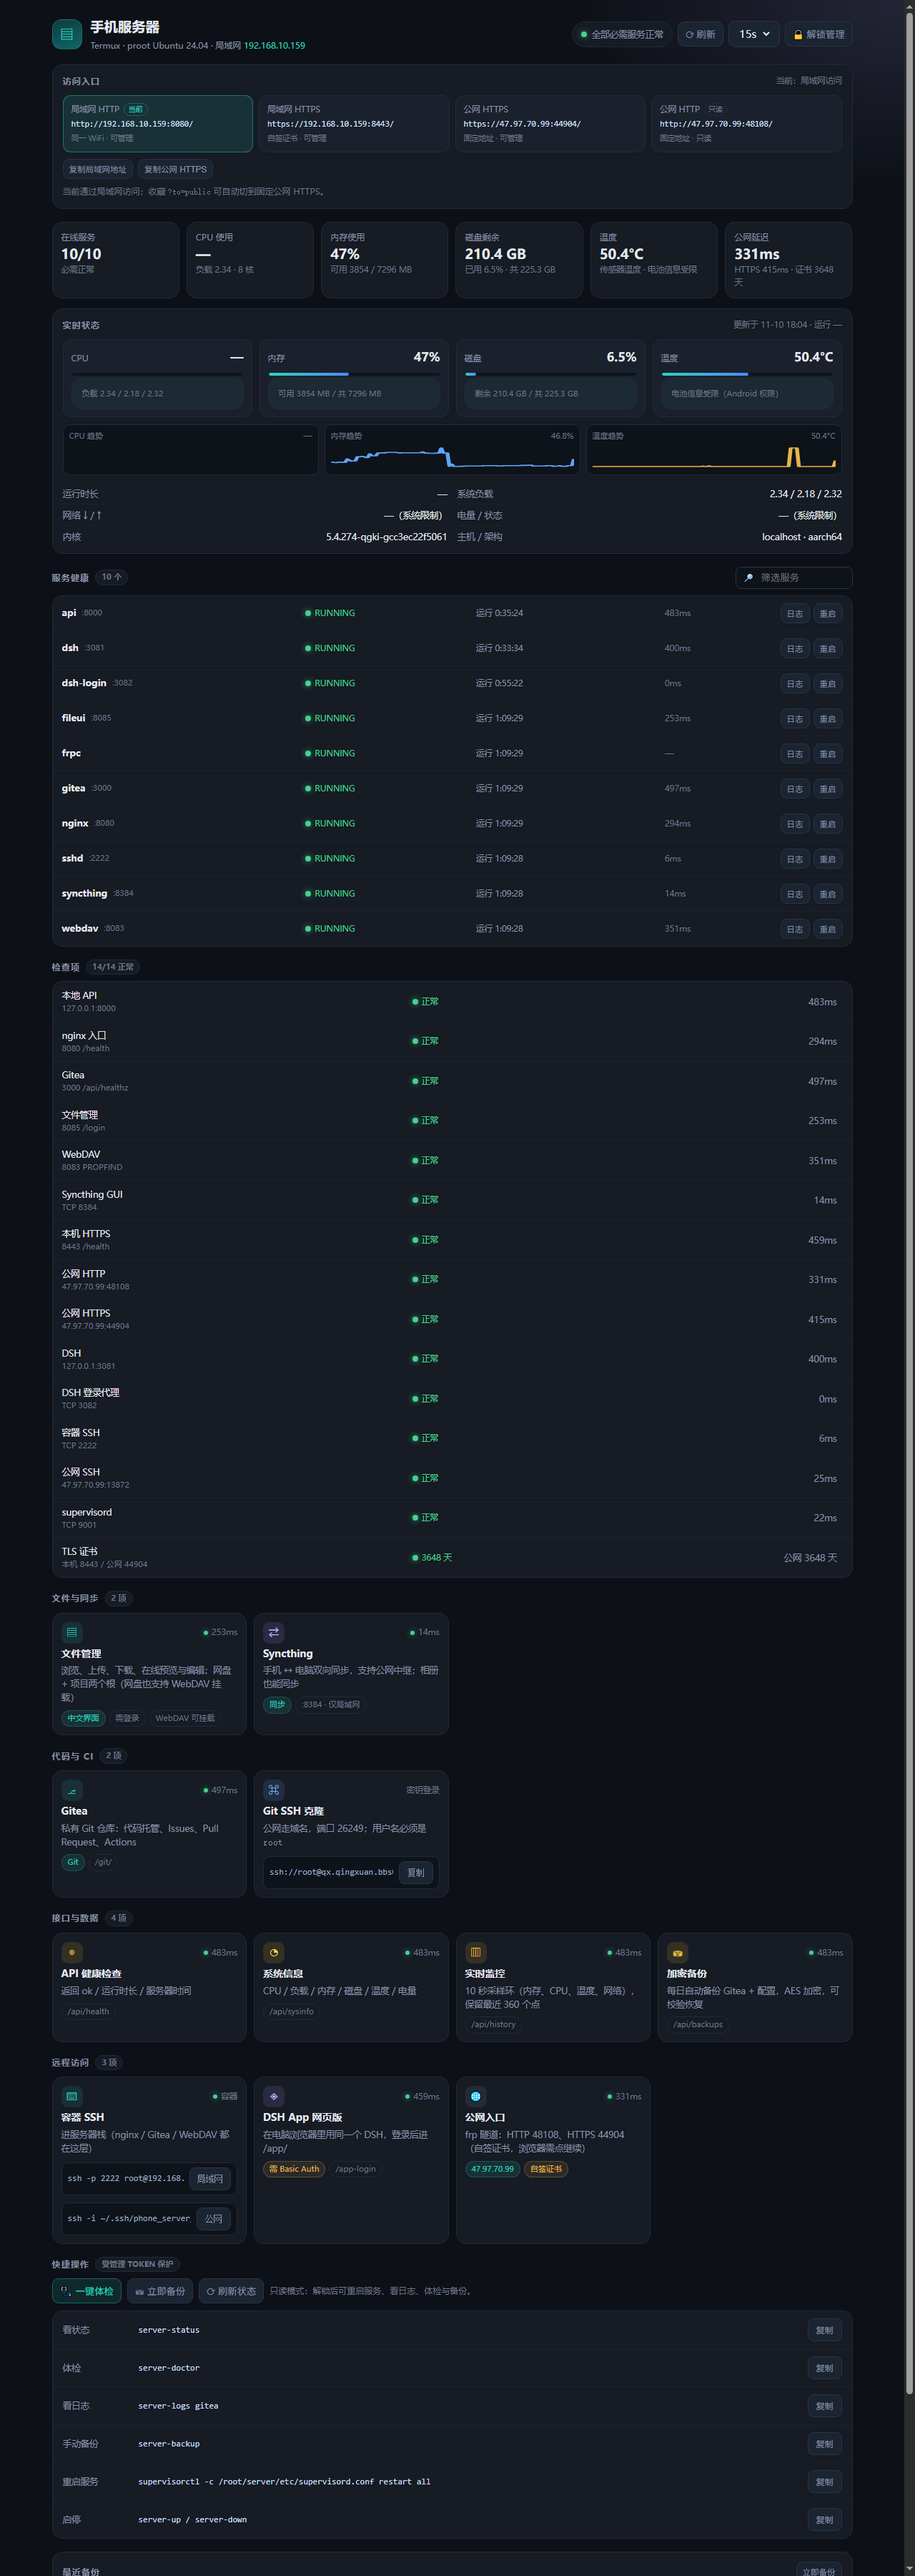
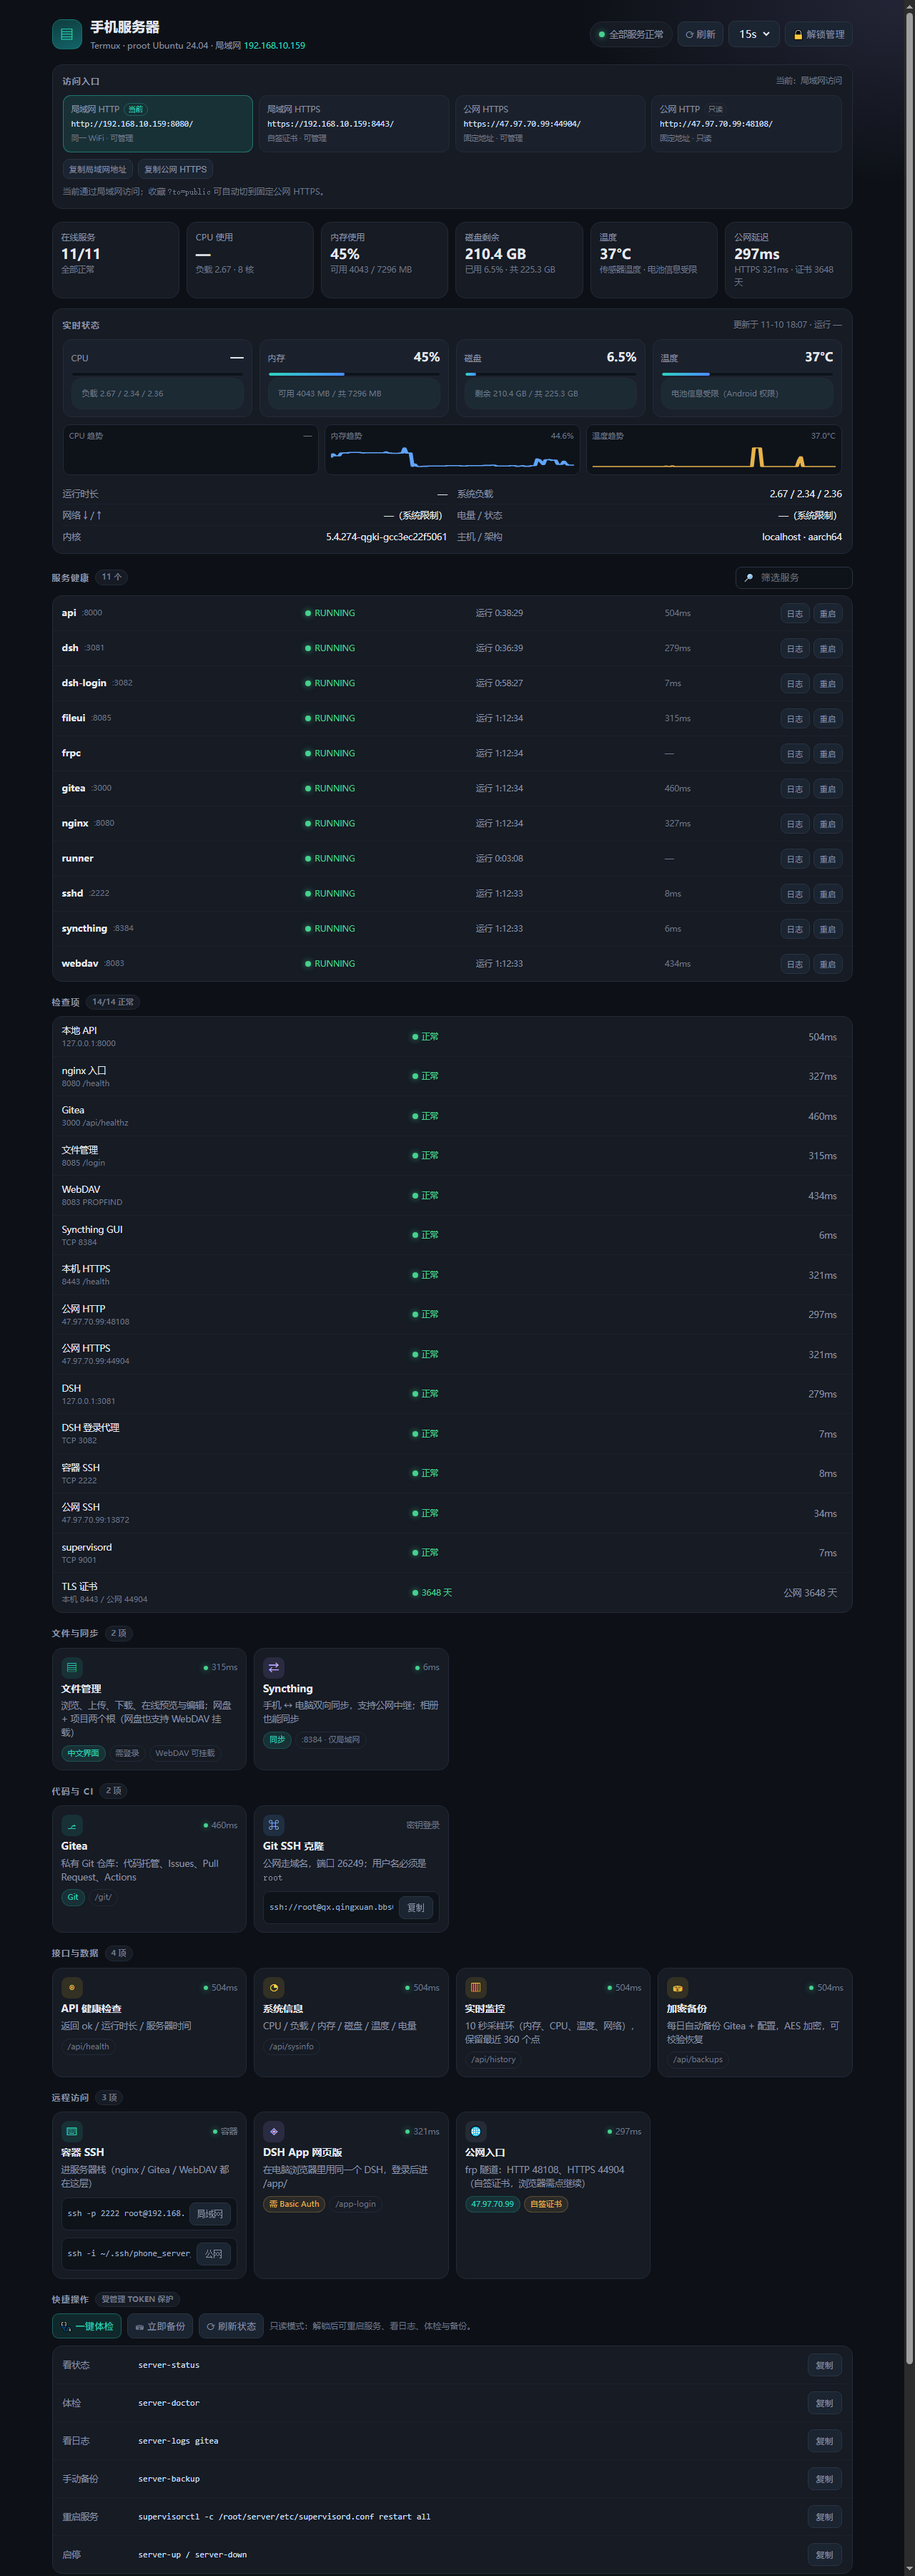
控制台入口切换最终版：访问入口面板+?to=lan/?to=public 跳转；合并 CI Runner 面板治理（卡片移除、runner 常驻，11/11）；截图/文档更新

diff --git a/scripts/server/console/index.html b/scripts/server/console/index.html
@@ -661,16 +661,13 @@ function renderOverview(data) {
   const c = data.checks || {};
   const services = data.services || [];
   const hist = data.history || [];
-  const OPTIONAL = new Set(['runner']);
-  const required = services.filter((x) => !OPTIONAL.has(x.name));
-  const run = required.filter((x) => x.state === 'RUNNING').length;
-  const optionalDown = services.filter((x) => OPTIONAL.has(x.name) && x.state !== 'RUNNING');
+  const run = services.filter((x) => x.state === 'RUNNING').length;
   const critical = ['api', 'nginx', 'gitea', 'fileui', 'webdav', 'syncthing', 'https', 'public', 'public_https', 'dsh', 'dsh_login', 'sshd'];
   const checksOk = critical.filter((k) => c[k] && c[k].code > 0).length;
-  const overallOk = required.length && run === required.length && checksOk === critical.length;
-  $('m-svc').textContent = `${run}/${required.length}`;
-  $('m-svc-c').textContent = required.length ? (run === required.length ? ('必需正常' + (optionalDown.length ? ' · runner 按需停用' : '')) : `${required.length - run} 项异常`) : '—';
-  $('overall').innerHTML = `<span class="dot ${overallOk ? 'ok' : (required.length ? 'bad' : 'warn')}"></span>${required.length ? (overallOk ? ('全部必需服务正常' + (optionalDown.length ? ' · runner 按需停用' : '')) : `${run}/${required.length} 在线 · 检查 ${checksOk}/${critical.length}`) : '检测中…'}`;
+  const overallOk = services.length && run === services.length && checksOk === critical.length;
+  $('m-svc').textContent = `${run}/${services.length}`;
+  $('m-svc-c').textContent = services.length ? (run === services.length ? '全部正常' : `${services.length - run} 项异常`) : '—';
+  $('overall').innerHTML = `<span class="dot ${overallOk ? 'ok' : (services.length ? 'bad' : 'warn')}"></span>${services.length ? (overallOk ? '全部服务正常' : `${run}/${services.length} 在线 · 检查 ${checksOk}/${critical.length}`) : '检测中…'}`;
   $('m-cpu').textContent = s.cpu_pct == null ? '—' : `${s.cpu_pct}%`;
   $('m-cpu-c').textContent = `负载 ${s.load1 ?? '—'} · ${s.cpus ?? '—'} 核`;
   const memUsed = (s.mem_total_mb && s.mem_available_mb != null) ? ((s.mem_total_mb - s.mem_available_mb) / s.mem_total_mb * 100) : null;
@@ -729,7 +726,7 @@ function renderServices(items) {
     const h = x.health;
     const lat = h ? (h.code > 0 ? `${h.ms}ms` : '不通') : '—';
     return `<div class="svc-row" data-name="${esc(x.name)}">
-      <div class="svc-name"><span class="n">${esc(x.name)}</span><span class="p">${x.name === 'runner' ? '按需' : (x.port ? ':' + x.port : '')}</span></div>
+      <div class="svc-name"><span class="n">${esc(x.name)}</span><span class="p">${x.port ? ':' + x.port : ''}</span></div>
       ${stateBadge(x.state)}
       <div class="svc-meta">${x.uptime ? '运行 ' + esc(x.uptime) : '—'} ${x.log ? '' : '<br>无日志'}</div>
       <div class="svc-health">${lat}</div>

diff --git a/docs/13-控制台功能分析与完善.md b/docs/13-控制台功能分析与完善.md
@@ -147,13 +147,13 @@ proot 内 App UID 无法读取 Android 的 `/proc/stat`、`/proc/uptime`、`/pro
 
 Edge 实测：公网 `?to=lan` 自动落到 `http://192.168.10.159:8080/`（当前 IP），局域网 `?to=public` 自动落到公网 HTTPS；两侧访问面板显示正确、当前项高亮。
 
-> 注意：CI Runner 已由并行治理改为**按需停用**（`server-runner on/off`）；控制台服务指标按 **必需服务** 计数，runner 单独标注“按需停用”，不再把停机误报为故障。
+> 注意：CI Runner 卡片按面板治理移除（「代码与 CI」2 项）；runner 已恢复常驻（`autostart=true`），可用 `server-runner on/off` 按需启停；控制台按实际 supervisord 服务计数（当前 11/11 RUNNING）。
 
 ## 5. 验证结果
 
 | 检查 | 结果 |
 |---|---|
-| 服务 | **10/10 必需服务 RUNNING**（runner 按需停用，不误报） |
+| 服务 | **11/11 RUNNING**（runner 常驻；CI Runner 卡片按治理移除，代码与 CI 2 项） |
 | `/api/overview` | 200，约 0.4s（探活缓存并行） |
 | 检查项 | **14/14 正常**；本机/公网证书剩余 3648 天 |
 | 页面渲染 | Edge 真实渲染（截图 1280×3600）；`Cache-Control: no-store`；CI Runner 卡片已按治理移除（代码与 CI 2 项） |
@@ -202,3 +202,4 @@ pkill -f termux-metrics.sh
 | 17:17 | 修复 sqlite3/备份 | 备份 6.45MB 成功 |
 | 17:18 | Edge 截图验收 | 见上，功能完整 |
 | 17:30 | 动态 IP 兼容：API 默认路由取当前 LAN IP、页面/SSH 命令自适应；固定公网 HTTPS 入口补强 | LAN/公网页面均显示当前 IP；44904 管理可用 |
+| 17:58 | 新增「访问入口」公网↔局域网切换、复制地址、`?to=lan`/`?to=public` 自动跳转；合并 CI Runner 面板治理（卡片移除、runner 恢复常驻） | Edge 实测跳转成功；页面 11/11 RUNNING |

diff --git a/README.md b/README.md
@@ -4,7 +4,7 @@
 
 - 目标：SSH 远程登录、文件同步/备份、轻量 Web 与自托管服务、下载/定时任务
 - 原则：**先零风险上线（Termux + proot），再用运行数据决定是否解锁 Root 升级**
-- 状态：**P0 完成**；2026-11-10 发生过一次「误删系统必需包导致 bootloop」，已恢复出厂并**从备份重建服务器**（复盘见 [docs/08](docs/08-事故复盘与重置重建报告.md)）；当前 **10/10 必需服务 RUNNING**（CI runner 按需停用），**控制台 v2 已上线**（实时指标/趋势/服务健康/日志/备份，见 [docs/13](docs/13-控制台功能分析与完善.md)）、**重启自动拉起（实测 43s 就绪）**、公网入口恢复
+- 状态：**P0 完成**；2026-11-10 发生过一次「误删系统必需包导致 bootloop」，已恢复出厂并**从备份重建服务器**（复盘见 [docs/08](docs/08-事故复盘与重置重建报告.md)）；当前 **11/11 服务 RUNNING**（CI Runner 常驻，卡片按治理移除），**控制台 v2 已上线**（实时指标/趋势/服务健康/日志/备份，见 [docs/13](docs/13-控制台功能分析与完善.md)）、**重启自动拉起（实测 43s 就绪）**、公网入口恢复
 - 动态 IP / 入口切换：控制台自动检测当前局域网 IP；公网页面可一键跳到局域网，也支持 `?to=lan`（公网→局域网）与 `?to=public`（局域网→公网 HTTPS）自动跳转；WiFi IP 变化后仍可用固定公网入口 `https://47.97.70.99:44904/`（管理）或 `http://47.97.70.99:48108/`（只读），详见 [docs/13 §4.1/§4.3](docs/13-控制台功能分析与完善.md#41-动态-ip-兼容wifi-dhcp)
 
 ---

diff --git a/docs/00-项目规划.md b/docs/00-项目规划.md
@@ -311,4 +311,4 @@
 | 2026-11-10 | v1.10 | 修复公网 /app/ 空白：dsh-login 增加 dshbrk 标记 cookie，nginx /app/ 只认标记（旧 DSH cookie 强制重登录）+ HTML no-store；真实浏览器验证 795593 DOM |
 | 2026-11-10 | v1.11 | **控制台 v2**：API 聚合/服务/日志/操作/备份 + Termux 指标采集；页面实时趋势、服务健康、检查项、管理 token、备份修复（sqlite3）；新增 docs/13 与截图 |
 | 2026-11-10 | v1.12 | **动态 WiFi IP 兼容**：API 默认路由取当前 LAN IP、页面/SSH 命令自适应；固定公网 HTTPS 控制台 44904 补强；nginx default 站点移出 sites-enabled |
-| 2026-11-10 | v1.13 | **公网↔局域网入口切换**：访问入口面板/复制/`?to=lan`/`?to=public` 自动跳转；合并 CI Runner 面板治理（按需停用，10/10 必需服务） |
+| 2026-11-10 | v1.13 | **公网↔局域网入口切换**：访问入口面板/复制/`?to=lan`/`?to=public` 自动跳转；合并 CI Runner 面板治理（卡片移除、runner 恢复常驻，11/11） |
